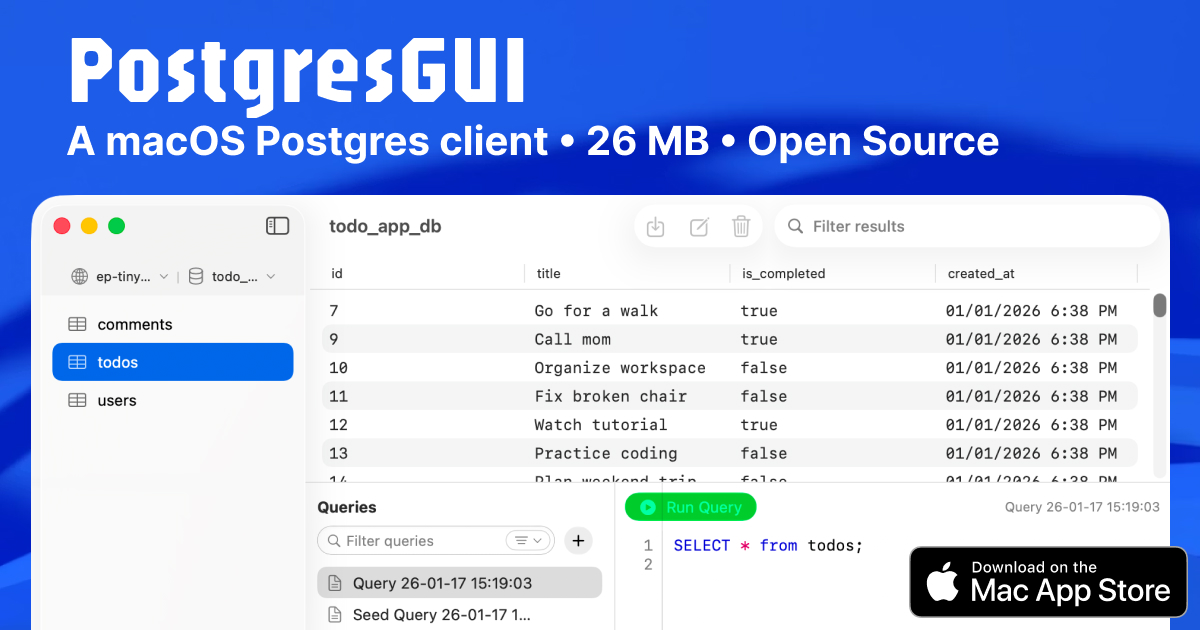
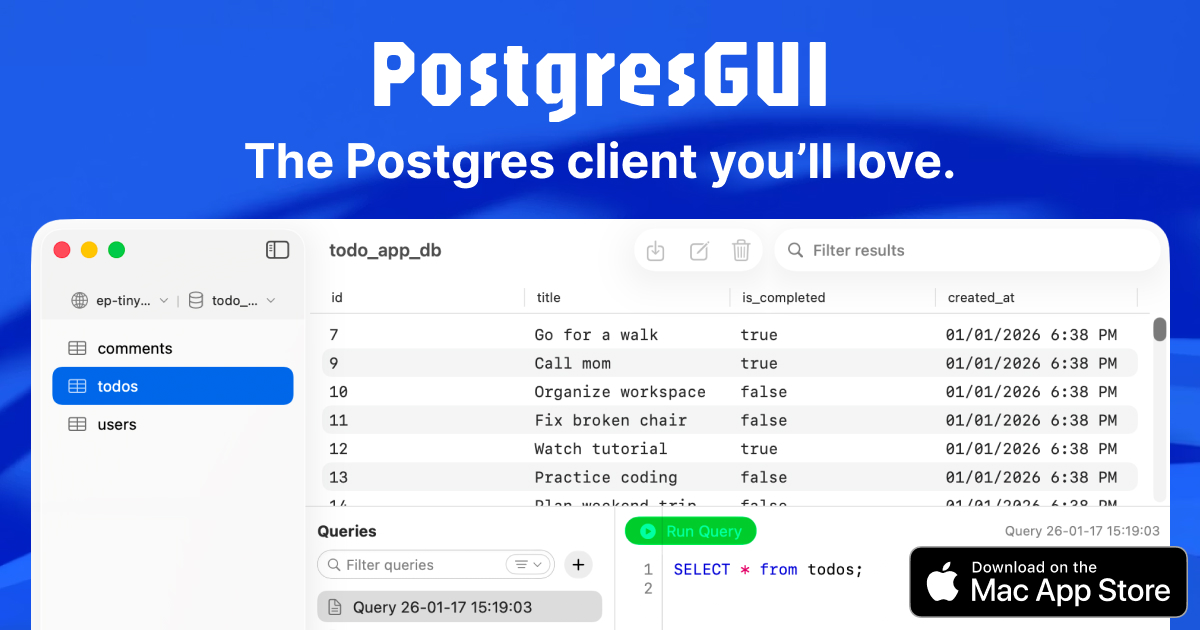
Update messaging

diff --git a/app/(en)/layout.tsx b/app/(en)/layout.tsx
@@ -5,7 +5,7 @@ import "../globals.css";
 
 export const metadata: Metadata = {
   metadataBase: new URL("https://postgresgui.com"),
-  title: "PostgresGUI - The Postgres Client Built for Mac",
+  title: "PostgresGUI - The Postgres Client You'll Love",
   description:
     "PostgreSQL GUI for Mac. Open-source, native macOS app. Lightweight, fast, dark mode.",
   keywords: [
